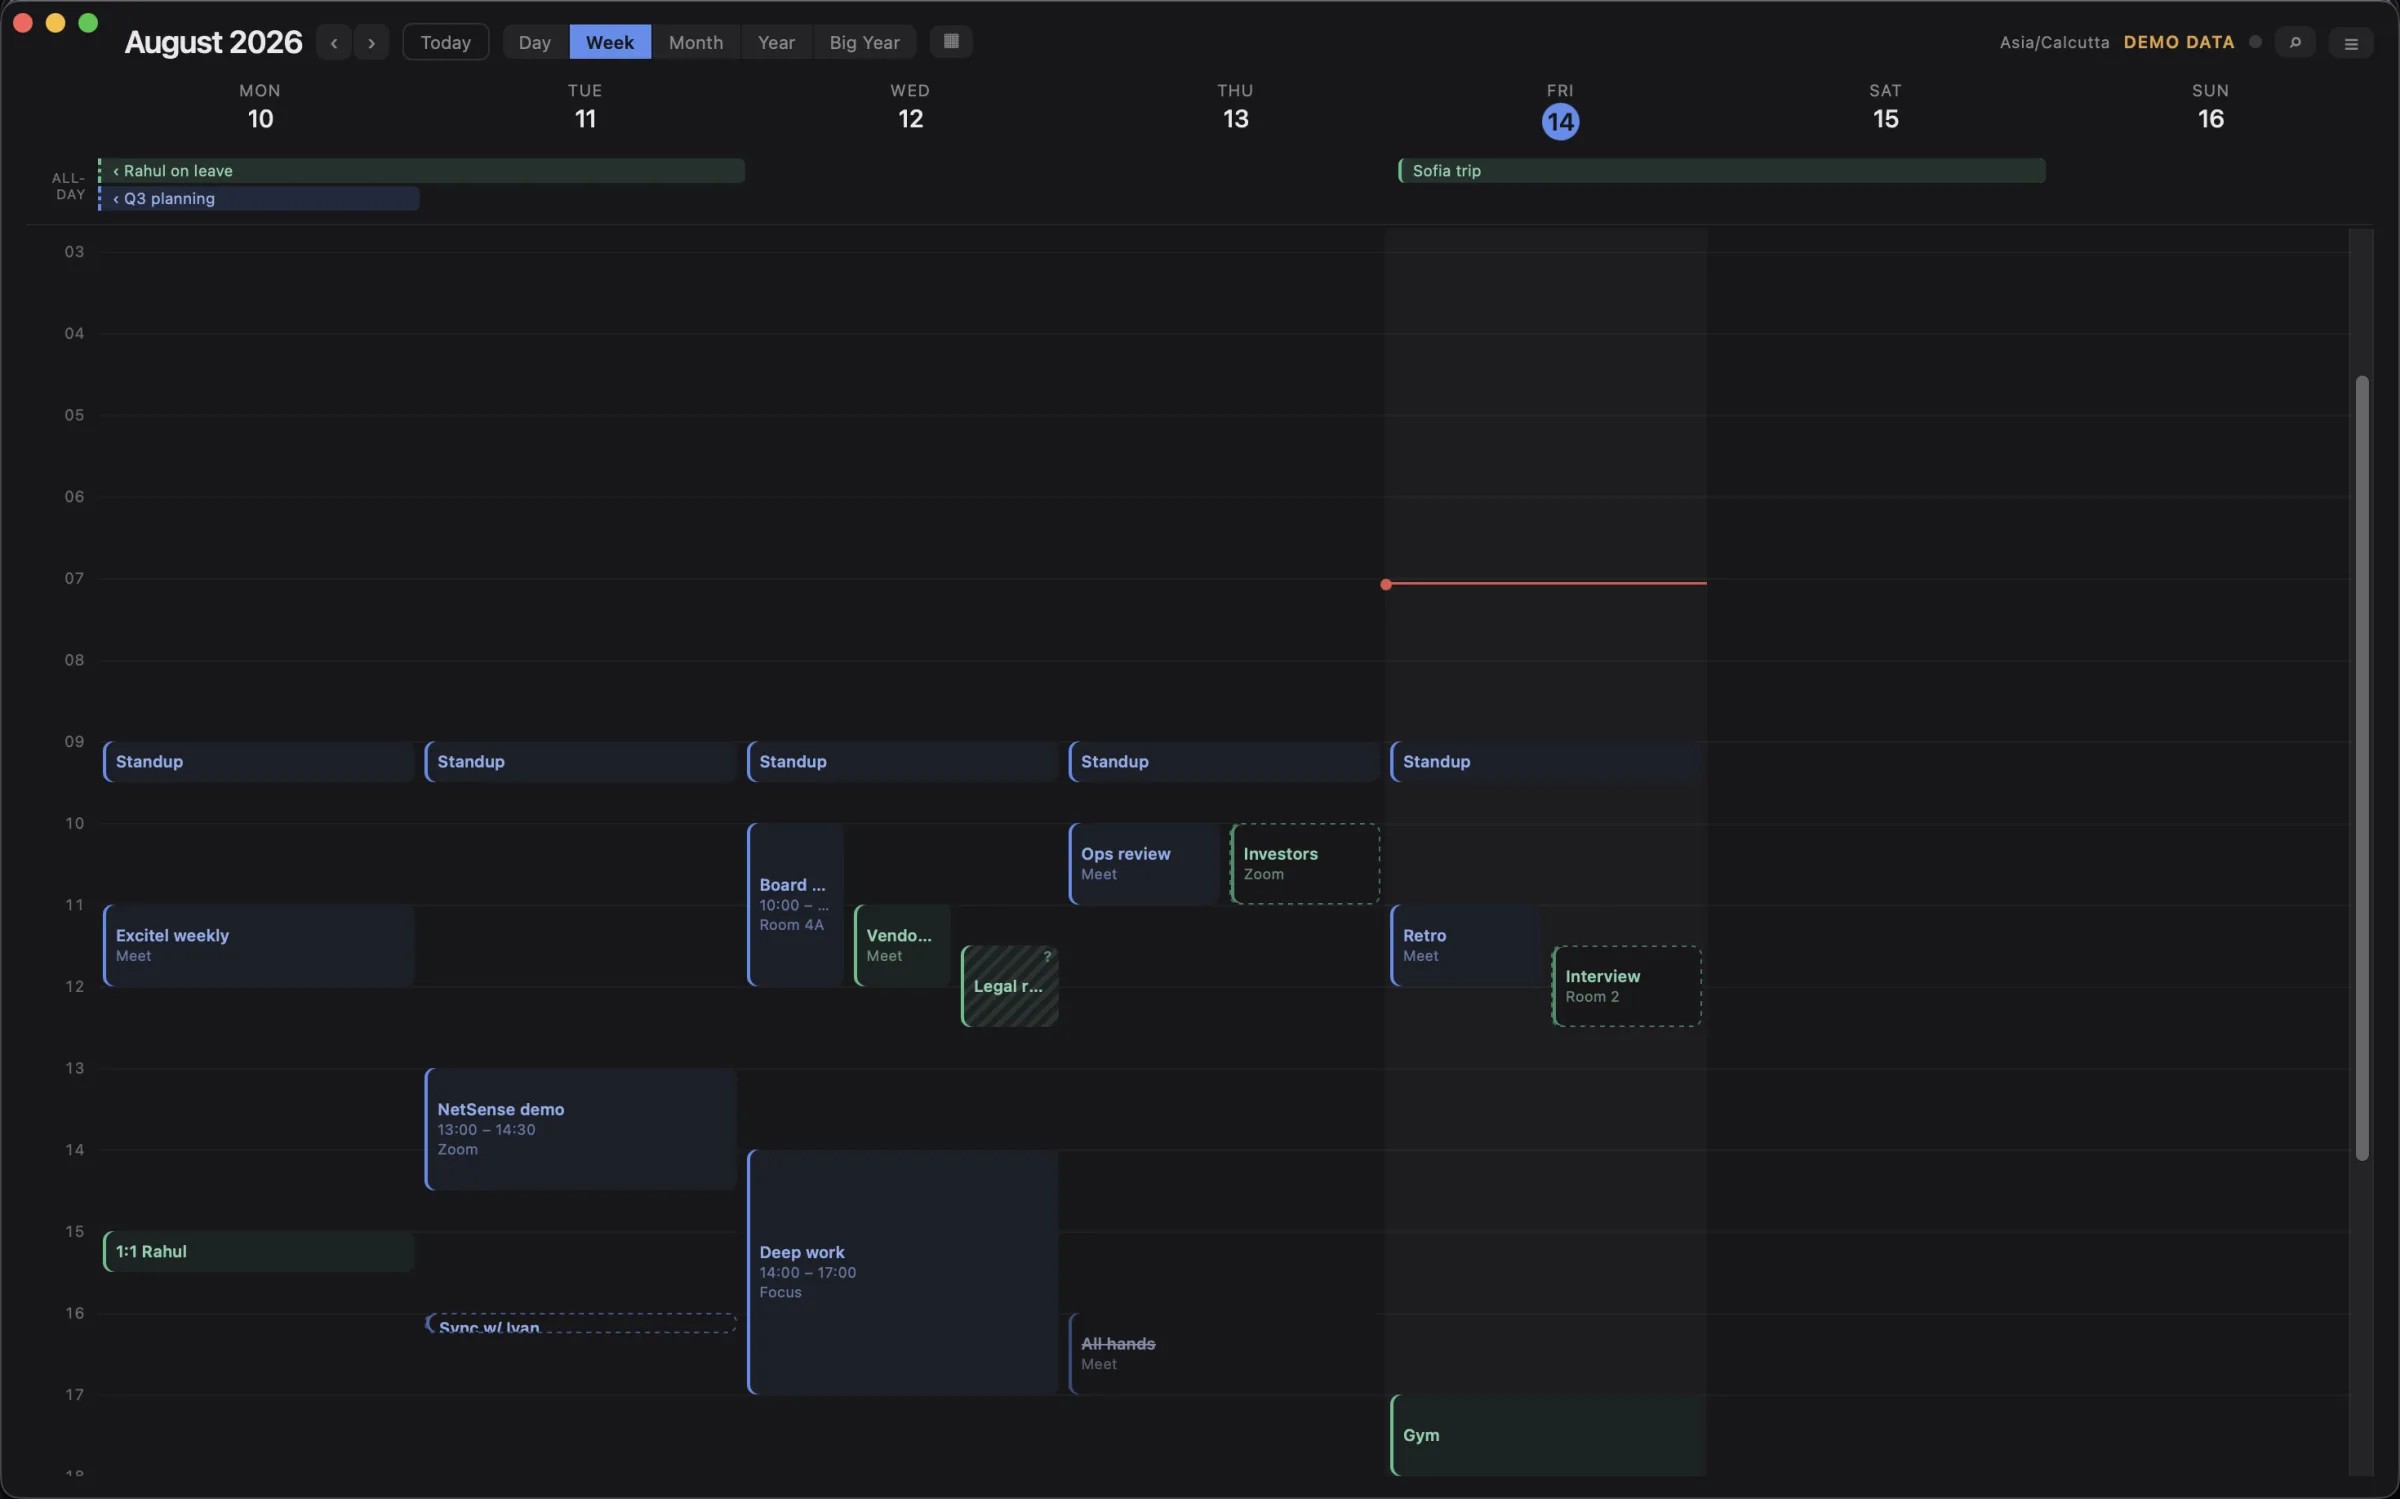
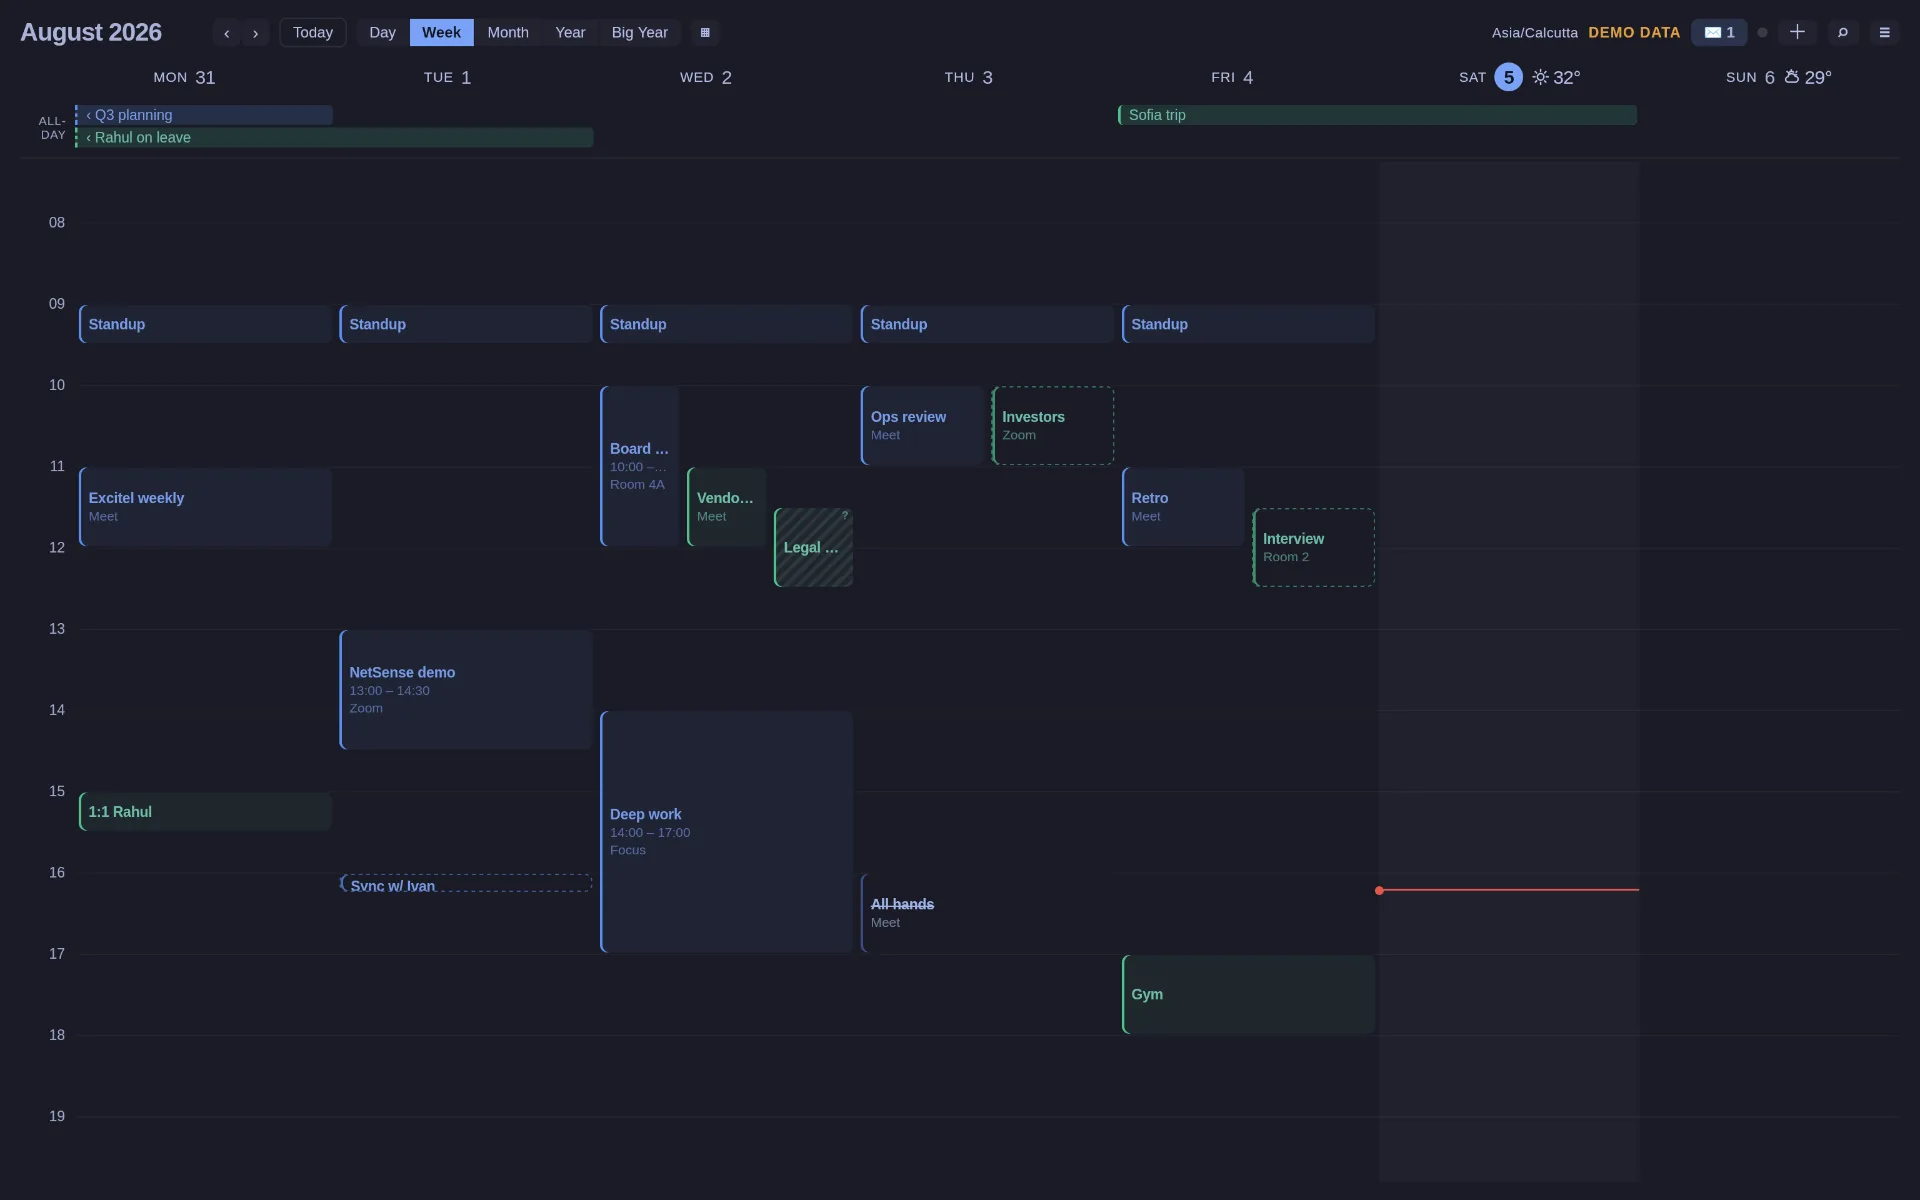
docs: the repository points at omacal.app
The About box, the README, the Omarchy guide, the AUR recipe and the
Flatpak metadata all named the old page under extremelabs.io. They name
omacal.app now, the README links the site in its first line and quotes
the new install line, and its Week screenshot is the current one.

Claude-Session: https://claude.ai/code/session_01GabzsFfyts4eNZMbTkhtkQ

diff --git a/README.md b/README.md
@@ -1,5 +1,7 @@
 # OmaCal
 
+**Site, downloads and the CLI guide: [omacal.app](https://omacal.app)**
+
 A desktop calendar for Omarchy Linux — **Google Calendar, iCloud, or any
 CalDAV server**, with full create/edit/RSVP including recurring events at
 all three scopes, and a signed, notarized macOS build for the days you're
@@ -72,7 +74,7 @@ from the app.
 
 ## Install
 
-    curl -fsSL https://extremelabs.io/omacal/install.sh | sh
+    curl -fsSL https://omacal.app/install.sh | sh
 
 One line for Linux x86_64 and macOS on Apple Silicon. On Linux the AppImage
 lands in `~/.local/bin` with a desktop entry; on a Mac, OmaCal.app lands in

diff --git a/docs/running-on-omarchy.md b/docs/running-on-omarchy.md
@@ -1,7 +1,7 @@
 # Running omacal on Omarchy
 
 > **Just want to use it?**
-> `curl -fsSL https://extremelabs.io/omacal/install.sh | sh` installs the
+> `curl -fsSL https://omacal.app/install.sh | sh` installs the
 > latest release, credentials included: no Google Cloud project, no config
 > file. Everything below is for building and running from source.
 
